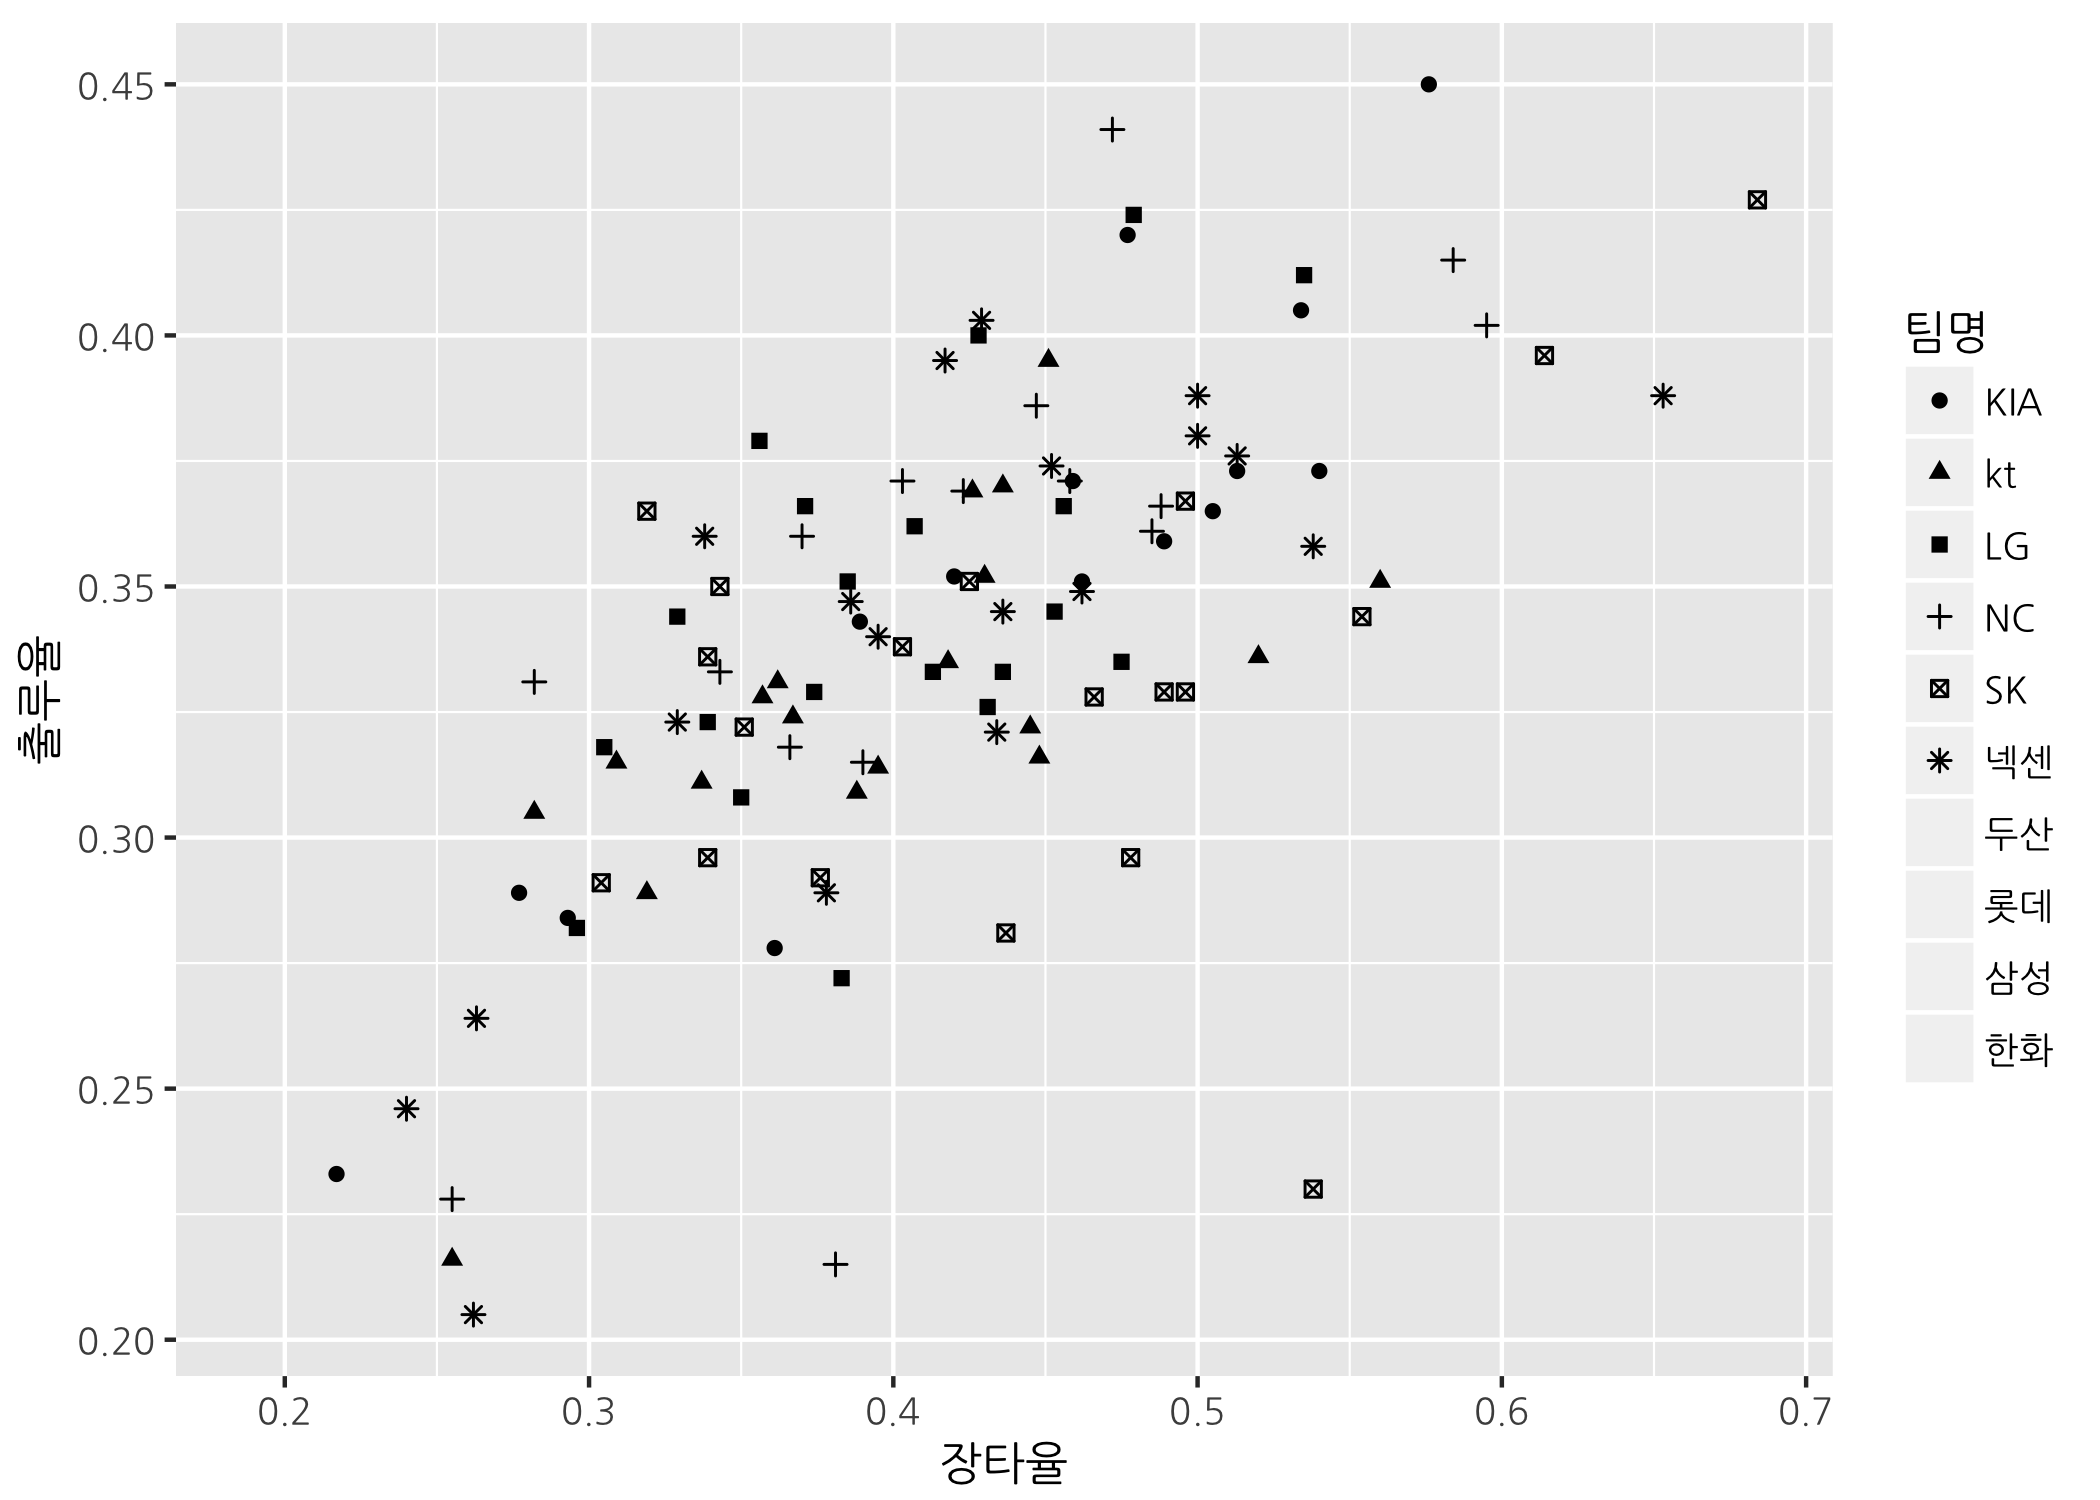
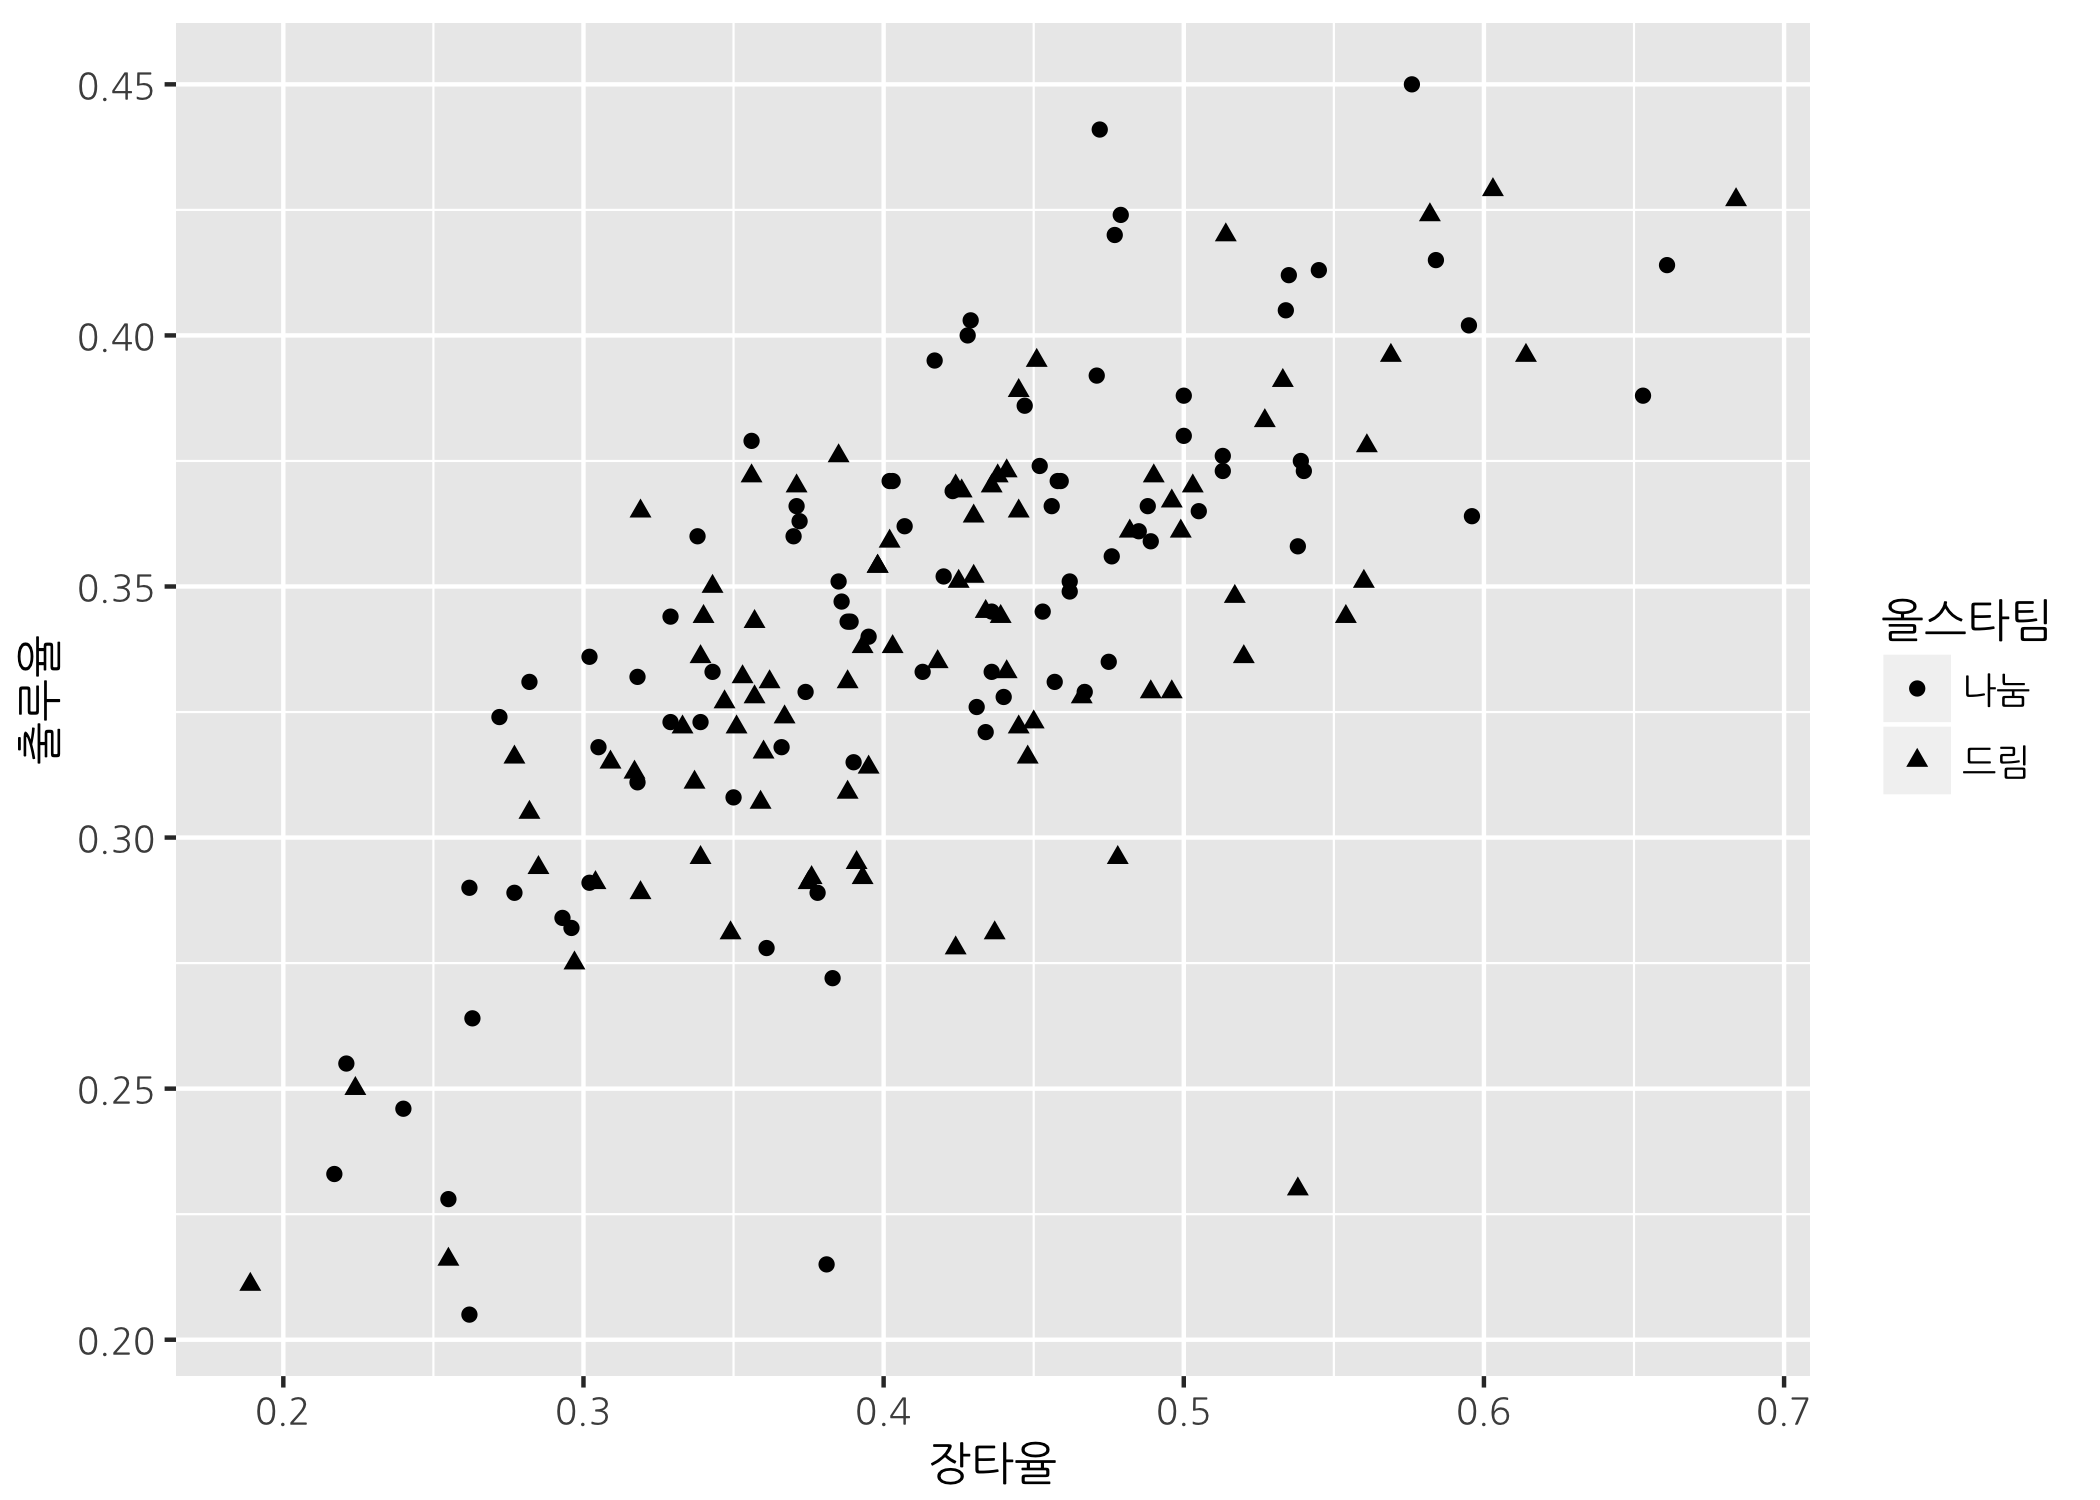
change posting

diff --git a/_posts/2018-04-02-R-ggplot2-시각화1.md b/_posts/2018-04-02-R-ggplot2-시각화1.md
@@ -1,3 +1,8 @@
+ggplot2 시각화1
+================
+Dr.Kevin
+4/2/2018
+
 우리는 이전 포스팅에서 탐색적 데이터 분석에 대해 알아봤습니다. R 기본 함수들을 이용하여 몇 가지 그래프를 그려보았는데요. 이번 포스팅에서는 R 시각화의 대표 패키지인 **ggplot2**를 활용하여 앞서 EDA에서 그려보았던 그래프들을 재현(?)해보겠습니다. 어떤 그래프가 더 나은지에 대한 가치판단은 각자의 몫으로 남기겠습니다만, 저는 ggplot2 패키지가 조금 더 세련된 것 같습니다. ㅎㅎ
 
 ggplot2 패키지 소개
@@ -5,11 +10,15 @@ ggplot2 패키지 소개
 
 우리가 R 기본함수로 그래프를 그릴 때 사용했던 함수들 기억하시나요? `plot`, `hist`, `boxplot`, `barplot` 등으로 그래프를 그리고 `text`, `abline`, `legend` 등의 함수들을 추가했습니다. 그런데 ggplot2 패키지는 조금 다른 문법을 사용합니다.
 
-아래 그림은 ggplot2 패키지로 그래프를 그릴 때 여러 개의 층으로 나누어 표현한다는 것을 알 수 있습니다.[1] ![](https://blog.gtwang.org/wp-content/uploads/2016/07/ggplot-grammar-of-graphics-stack-1.png)
+아래 그림은 ggplot2 패키지로 그래프를 그릴 때 여러 개의 층으로 나누어 표현한다는 것을 알 수 있습니다.[1]
+
+![](https://blog.gtwang.org/wp-content/uploads/2016/07/ggplot-grammar-of-graphics-stack-1.png)
 
 그림은 총 7개의 층으로 구성되어 있으며, 맨 아래 **Data**로부터 **Geometries**는 필수로 입력해야 하는 항목들이고, **Facets**부터 맨 위에 있는 **Theme**까지는 필요한 경우 추가하면 되는 항목들입니다.
 
-이번에는 R 코드로 문법을 설명하는 다른 그림을 소개하겠습니다.[2] ![](http://mblogthumb2.phinf.naver.net/MjAxNzEwMjVfMjE5/MDAxNTA4ODg4MjY2MTk0.BZoMvCbkuMbw_Ywmi1fAyjonED-3tGQpat76O03diZYg.Al1ZXP7FEtexxtMHfKuJb2Gb_ZKPdWB69k_eHm-HBGkg.PNG.definitice/image.png?type=w800)
+이번에는 R 코드로 문법을 설명하는 다른 그림을 소개하겠습니다.[2]
+
+![](http://mblogthumb2.phinf.naver.net/MjAxNzEwMjVfMjE5/MDAxNTA4ODg4MjY2MTk0.BZoMvCbkuMbw_Ywmi1fAyjonED-3tGQpat76O03diZYg.Al1ZXP7FEtexxtMHfKuJb2Gb_ZKPdWB69k_eHm-HBGkg.PNG.definitice/image.png?type=w800)
 
 RStudio 홈페이지에는 주요 기능들에 대해서 압축하여 설명해놓은 여러 가지 [**Cheat Sheets**](https://www.rstudio.com/resources/cheatsheets/)을 PDF로 다운로드할 수 있습니다. 이번 포스팅과 관련 있는 **Data Visualization Cheat Sheet**를 다운로드한 후 열어보면 ggplot2 패키지의 주요 사용법이 소개되어 있는데요. 두 번째로 소개하는 그림은 Cheat Sheet 왼쪽에 있는 이미지의 일부를 개인 블로거가 올려놓은 것입니다.
 
@@ -175,7 +184,9 @@ ggplot(data = hitters50,
 -   stroke : 점의 테두리 두께를 지정합니다.
 -   alpha : 점의 투명도를 지정합니다. 0 ~ 1 값을 가지며, 숫자가 작을수록 투명합니다.
 
-점의 모양은 아래 그림을 보고 원하는 모양을 선택하여 정수형으로 할당하면 됩니다. 0 ~ 20번까지는 채우기 색상 없이 테두리 색상만 지정할 수 있고, 21 ~ 25번은 테두리와 채우기 색상을 선택할 수 있습니다. ![](http://sape.inf.usi.ch/sites/default/files/ggplot2-shape-identity.png)
+점의 모양은 아래 그림을 보고 원하는 모양을 선택하여 정수형으로 할당하면 됩니다. 0 ~ 20번까지는 채우기 색상 없이 테두리 색상만 지정할 수 있고, 21 ~ 25번은 테두리와 채우기 색상을 선택할 수 있습니다.
+
+![](http://sape.inf.usi.ch/sites/default/files/ggplot2-shape-identity.png)
 
 위에서 설명한 인자들을 하나씩 변경해가면서 어떻게 동작하는지 확인해보겠습니다.
 
@@ -275,7 +286,7 @@ ggpoint +
 
 #### 점의 모양 변경하기 (aes()에 shape 인자 적용)
 
-점의 모양을 다르게 적용할 데이터로는 문자형 또는 범주형 변수를 할당하며, 레벨이 6개 이상인 경우 6가지만 다르게 출력됩니다.
+점의 모양을 다르게 적용할 데이터로는 문자형 또는 범주형 변수를 할당하며, 레벨이 6개 이상인 경우 6종류만 서로 다르게 출력되고 그 이상은 산점도에 출력되지 않으니 주의하기 바랍니다.
 
 ``` r
 # 팀명을 기준으로 점의 모양을 다르게 합니다.
@@ -304,14 +315,8 @@ ggpoint <- ggplot(data = hitters50,
                                 y = 출루율))
 
 # 올스타팀을 기준으로 점의 모양을 다르게 합니다. 
-ggpoint + geom_point(mapping = aes(shape = 팀명))
+ggpoint + geom_point(mapping = aes(shape = 올스타팀))
 ```
-
-    ## Warning: The shape palette can deal with a maximum of 6 discrete values
-    ## because more than 6 becomes difficult to discriminate; you have
-    ## 10. Consider specifying shapes manually if you must have them.
-
-    ## Warning: Removed 67 rows containing missing values (geom_point).
 
 ![](https://github.com/MrKevinNa/MrKevinNa.github.io/blob/master/images/시각화1/unnamed-chunk-12-1.png?raw=true)
 
@@ -361,8 +366,8 @@ ggpoint +
 ggpoint + 
   geom_point(mapping = aes(fill = OPS),
              shape = 21) +
-  scale_fill_gradient(low = 'gray90',
-                      high = 'gray10')
+  scale_fill_gradient(low = 'yellow',
+                      high = 'red')
 ```
 
 ![](https://github.com/MrKevinNa/MrKevinNa.github.io/blob/master/images/시각화1/unnamed-chunk-16-1.png?raw=true)
